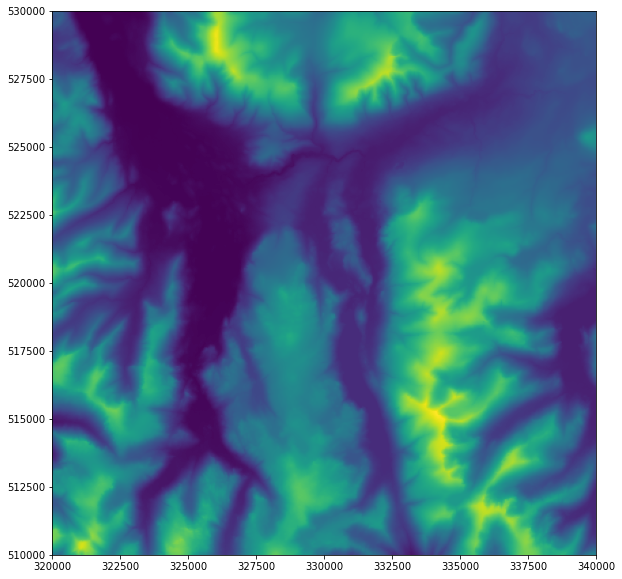
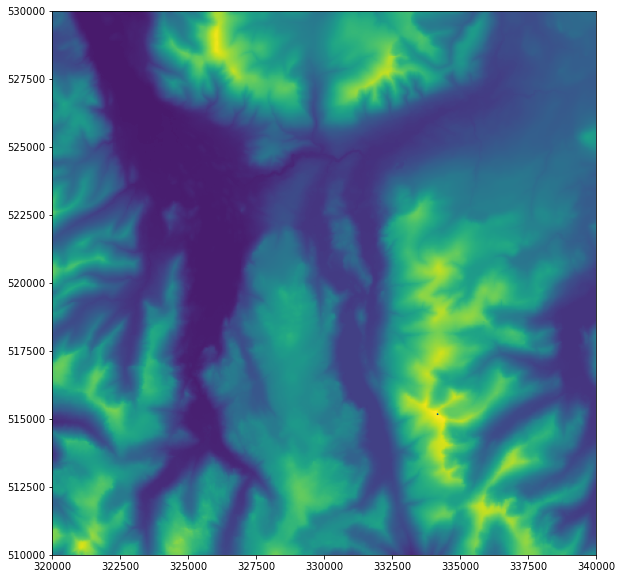
adding location point

Changed region(s): [[0.1222, 0.0, 0.4277, 0.7772]]

diff --git a/week8/bresenham.py b/week8/bresenham.py
@@ -8,8 +8,23 @@ Created on Tue Nov 18 11:37:05 2025
 from numpy import zeros
 from rasterio import open as rio_open
 from rasterio.plot import show as rio_show
+from rasterio.transform import rowcol
 from matplotlib.pyplot import subplots, savefig
 from matplotlib.colors import LinearSegmentedColormap
+from geopandas import GeoSeries
+from shapely.geometry import Point
+
+def coord_2_img(transform, x, y):
+    """
+    Convert from coordinate space to image space using
+    the affine transform object from a rasterio dataset
+    
+    """
+    r, c = rowcol(transform, x,y)
+    return int(r), int(c)
+    
+
+LOCATION = (334170, 515165)
 
 # open the elevation data file
 with rio_open("../../data/helvellyn/Helvellyn-50.tif") as dem:
@@ -19,6 +34,12 @@ with rio_open("../../data/helvellyn/Helvellyn-50.tif") as dem:
 
     # create a new 'band' of raster data the same size
     output = zeros(dem_data.shape) # COMPLETE THIS LINE
+
+    # storing image space coordinates of the coordinate space coordinates in row and col
+    row, col = coord_2_img(dem.transform, 334170, 515165)
+    
+    # set the pixel at specified location to 1
+    dem_data[dem.index(334170, 515165)] = 1
 
 # plot the dataset
 fig, my_ax = subplots(1, 1, figsize=(16, 10))
@@ -37,3 +58,4 @@ rio_show(
     cmap = LinearSegmentedColormap.from_list('binary_viewshed', [(0, 0, 0, 0), (1, 0, 0, 0.5)], N=2)
     )
 savefig('./out/bresenham.png', bbox_inches='tight')
+
